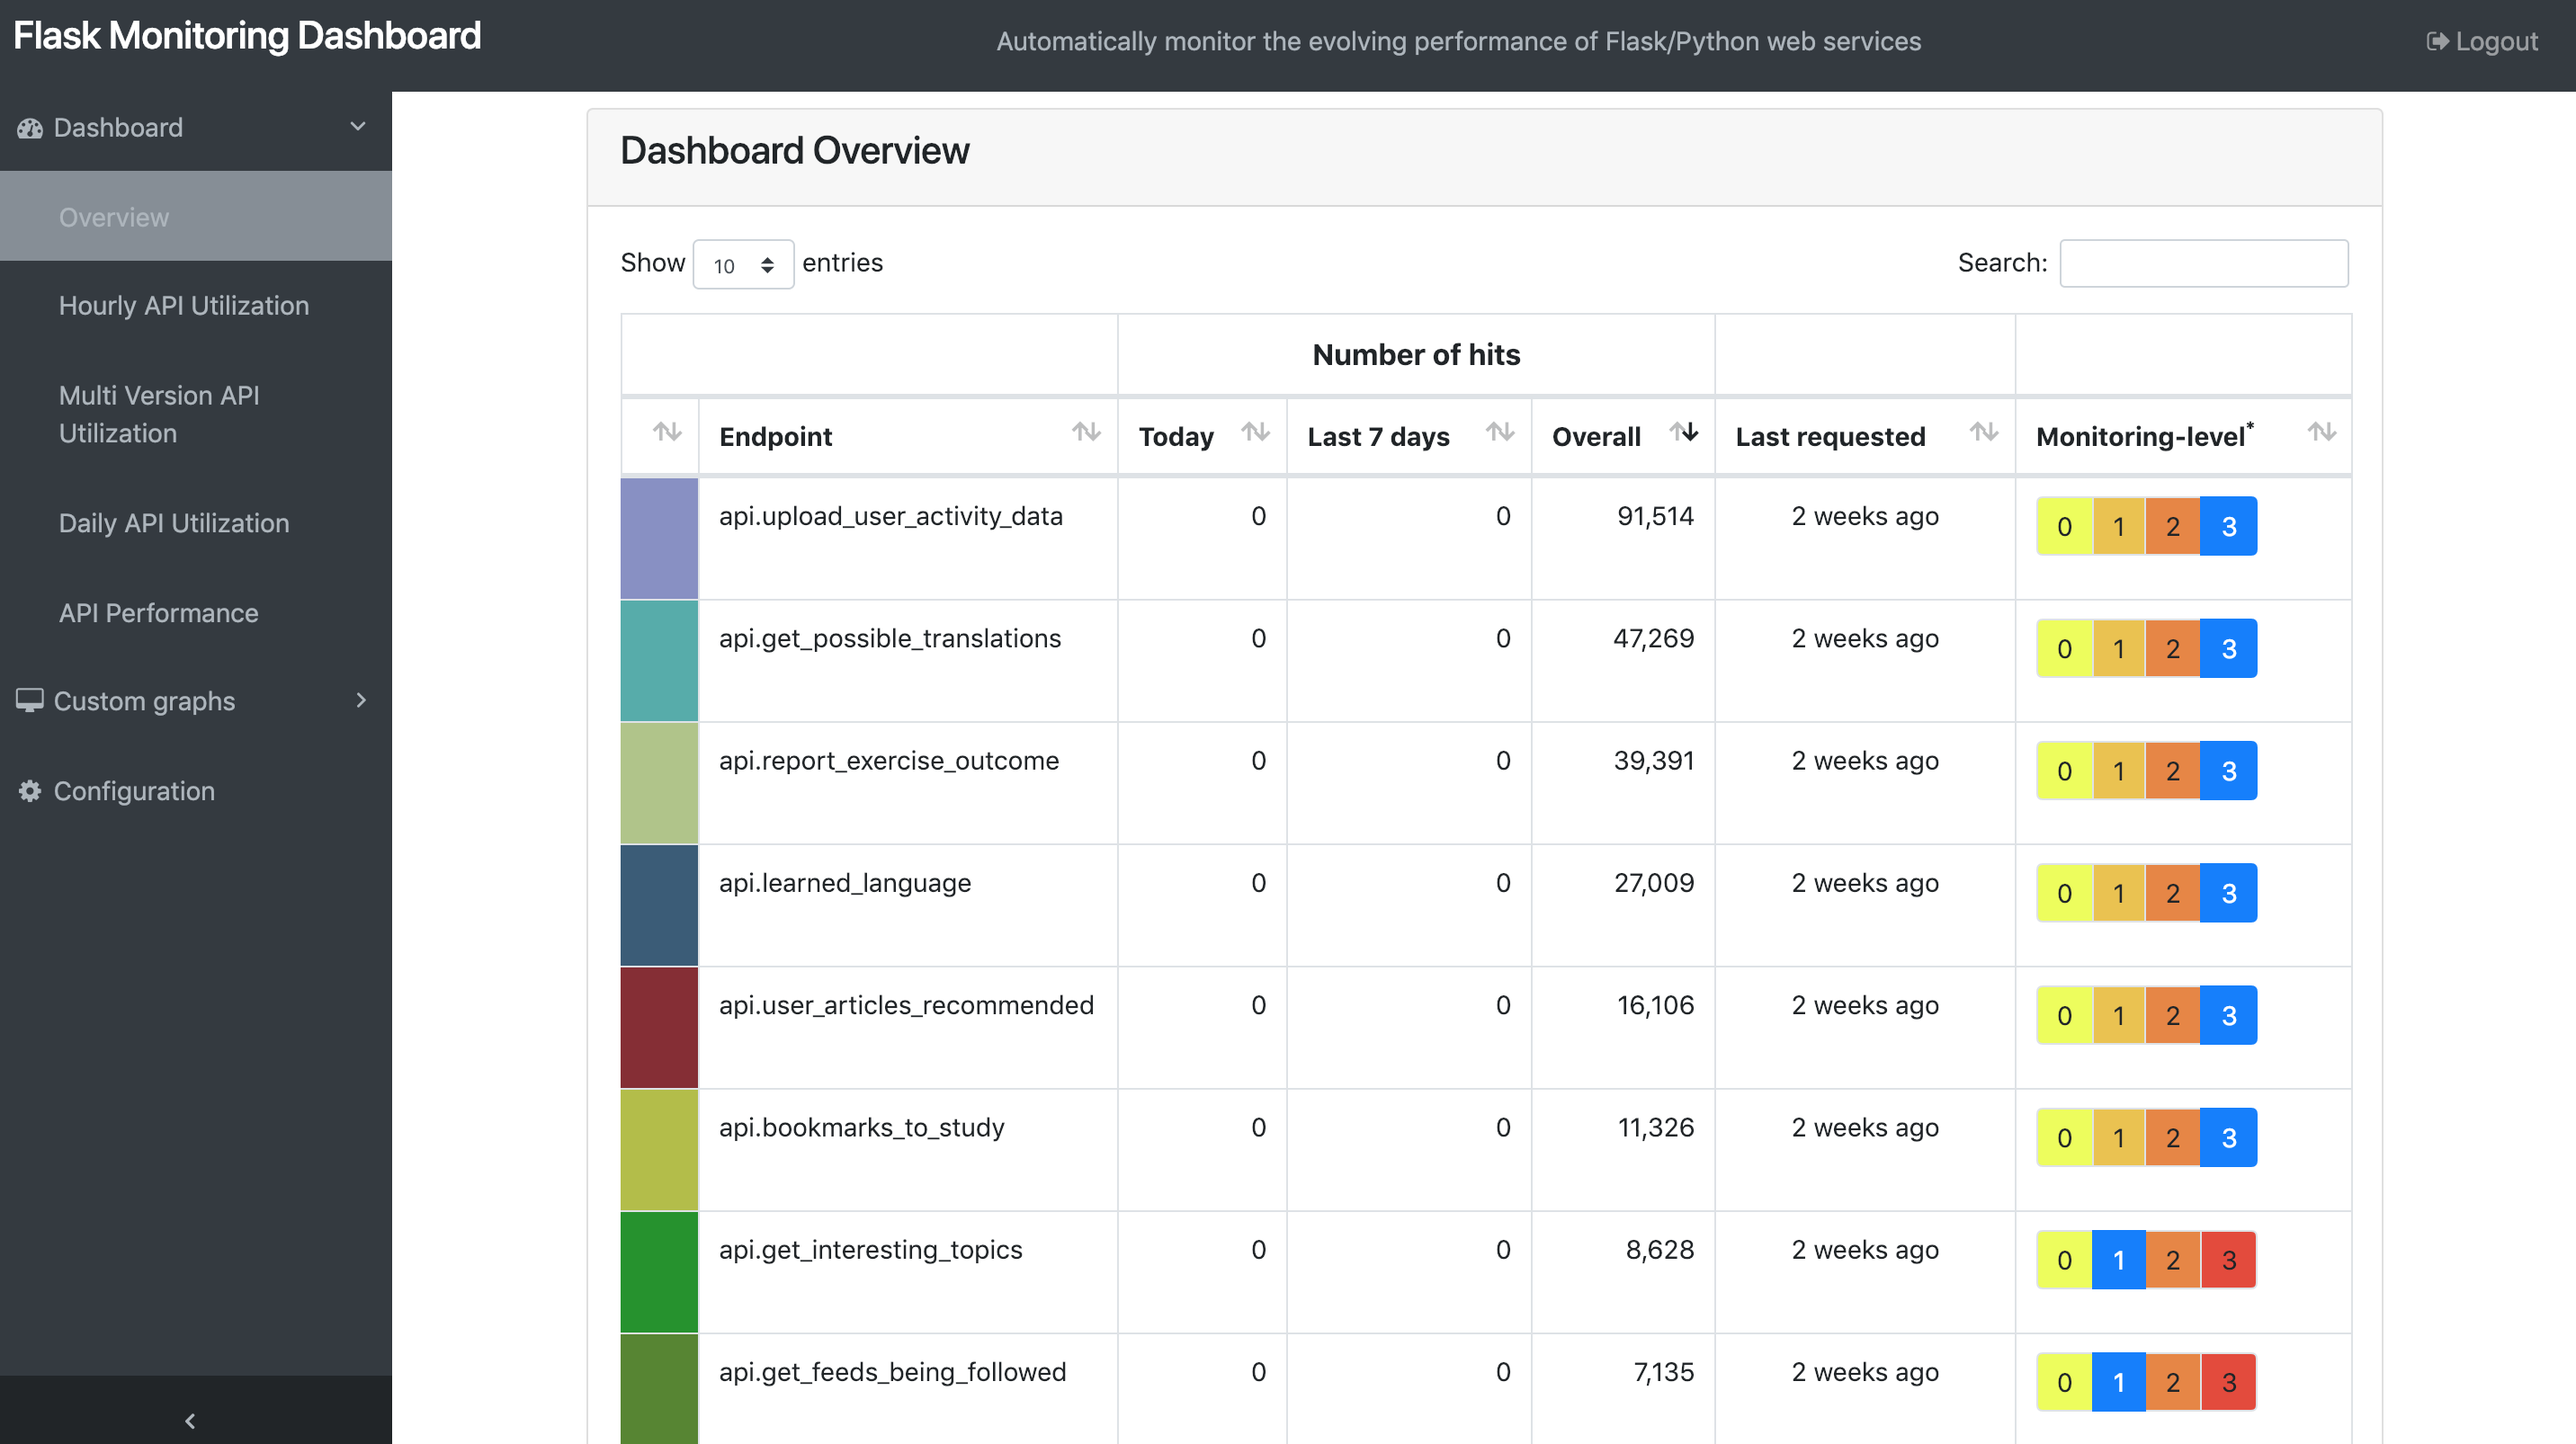
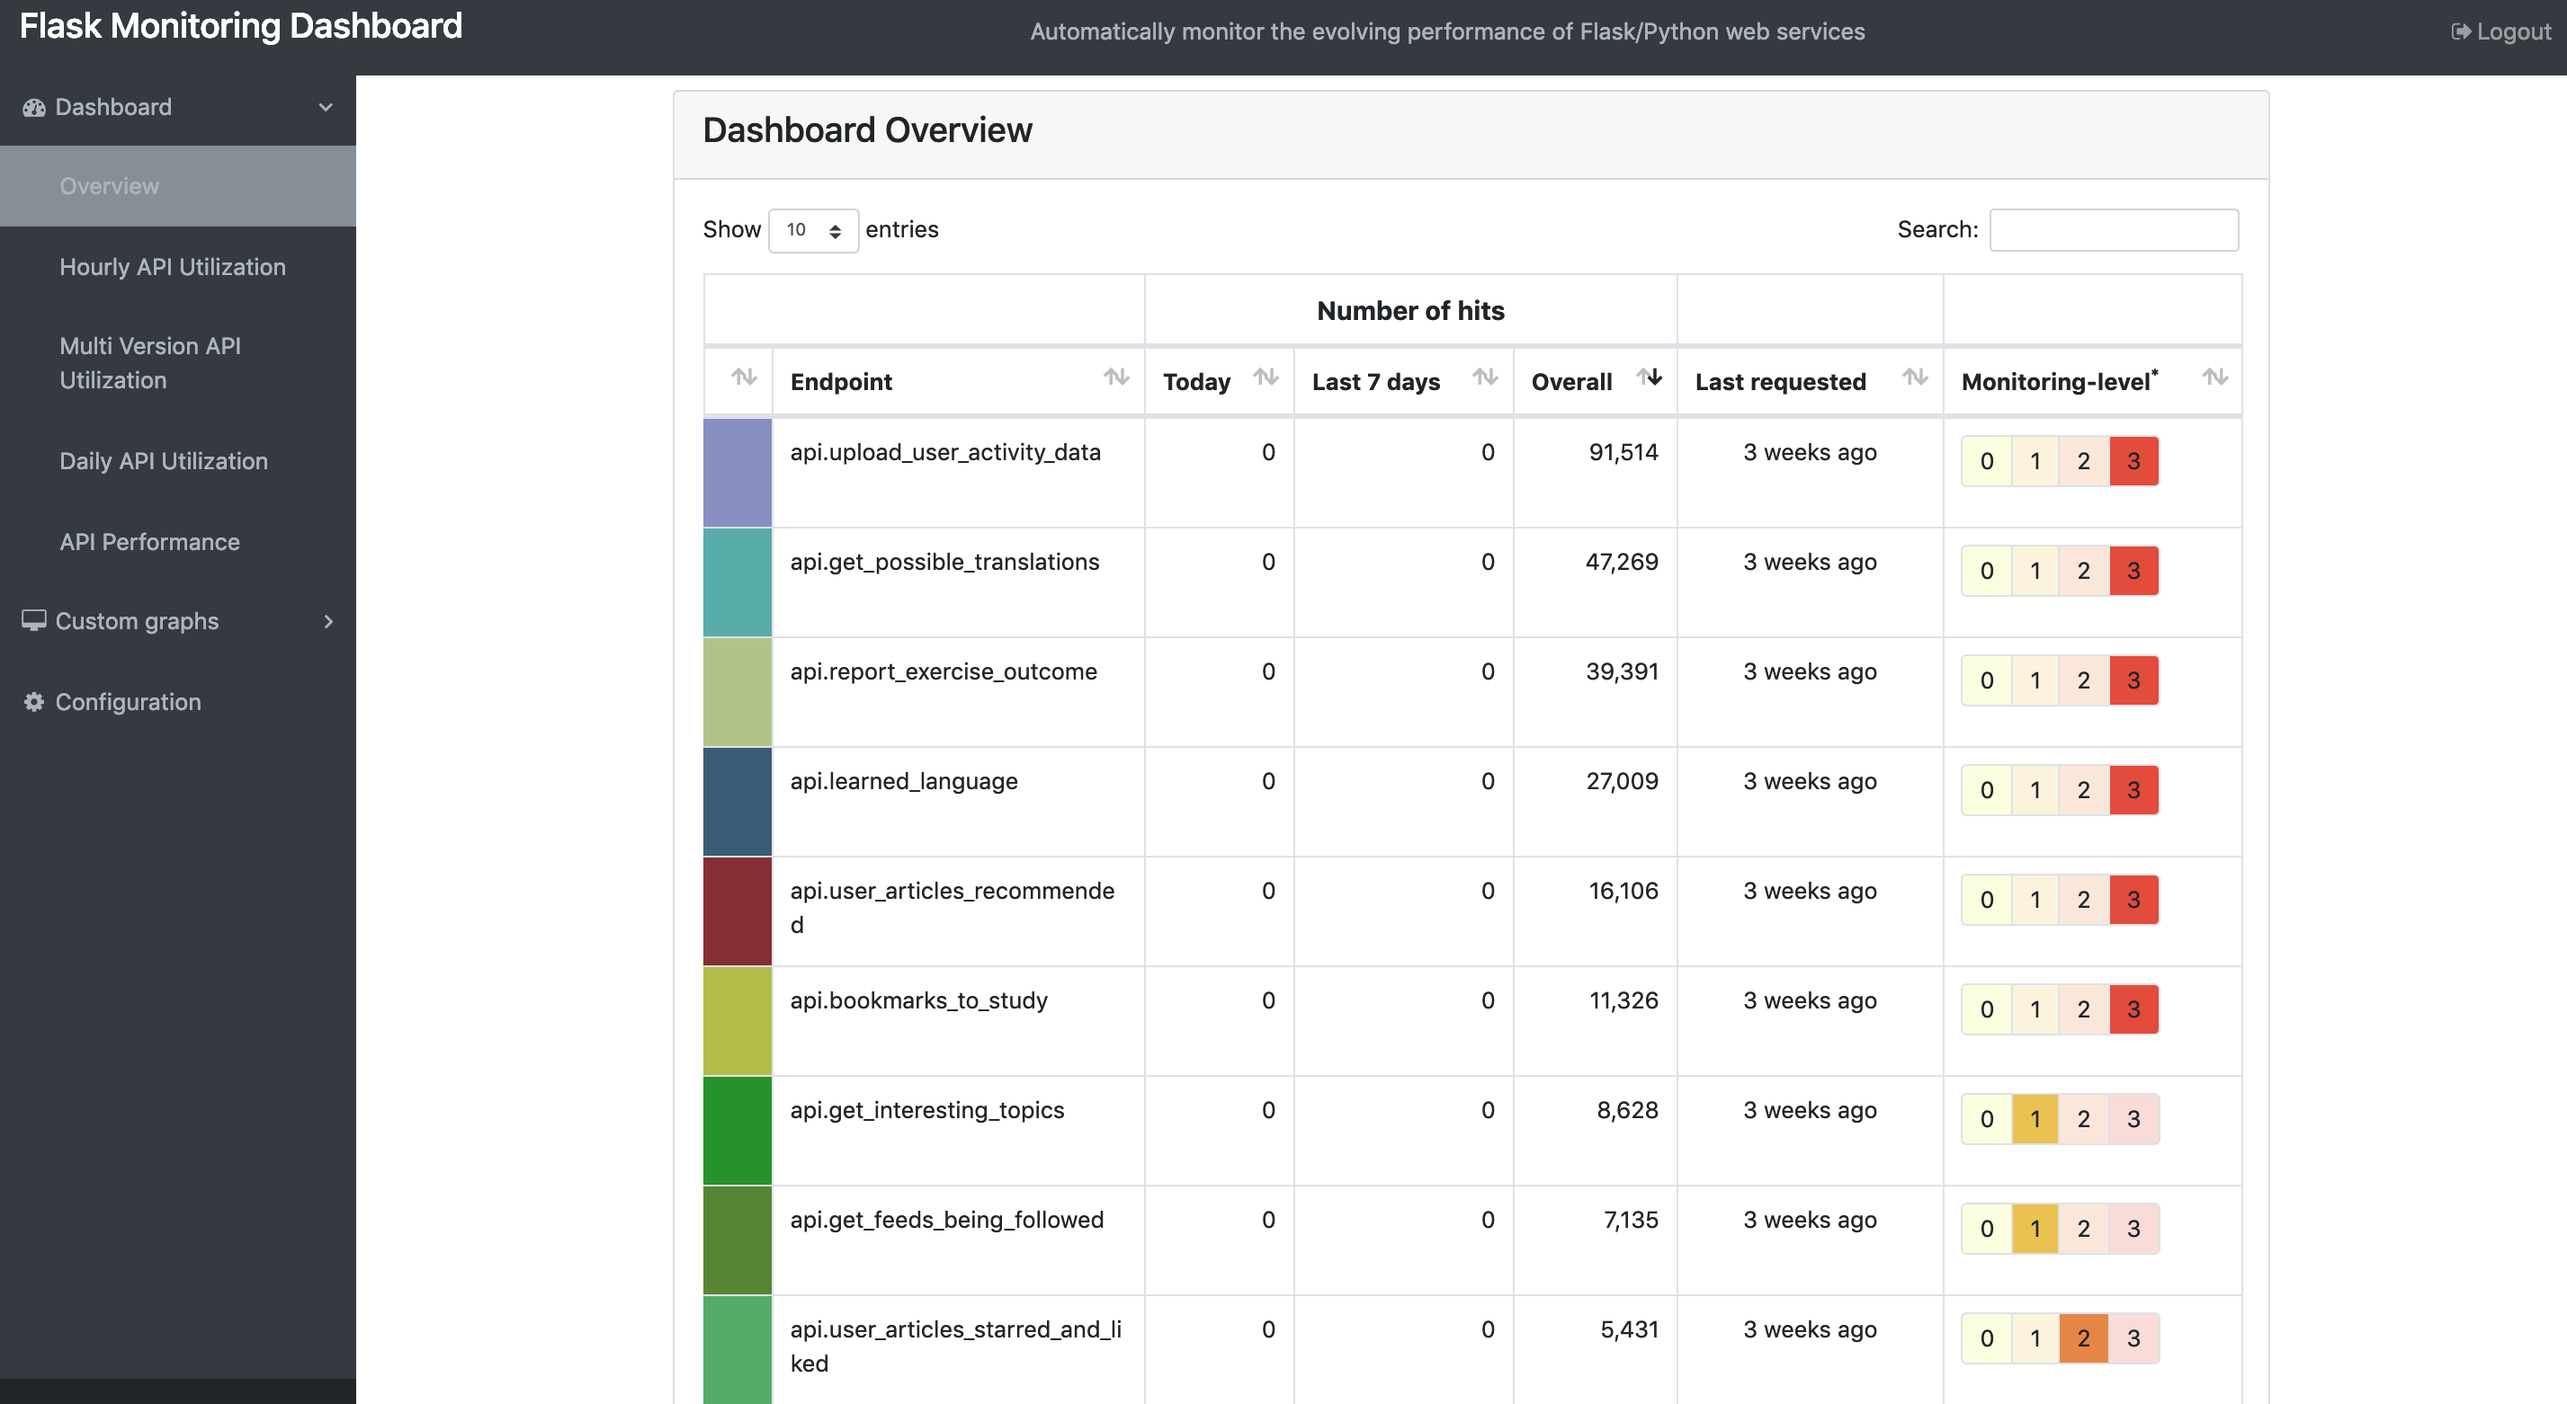
remove blue button from monitoring levels

diff --git a/flask_monitoringdashboard/static/pages/overview.html b/flask_monitoringdashboard/static/pages/overview.html
@@ -59,8 +59,7 @@
                     <td style="text-align: center;">{{ row['last-accessed'] | dateDifference }}</td>
                     <td ng-click="$event.stopPropagation()">
                         <ul class="pagination">
-                            <li ng-repeat="n in [0, 1, 2, 3]" class="page-item"
-                                ng-class="{'active': row.monitor == n}">
+                            <li ng-repeat="n in [0, 1, 2, 3]" class="page-item">
                                 <a class="page-link" ng-click="sendForm(row, n)"
                                    style="background-color: {{ computeColor(n, row.monitor) }}">{{ n }}</a></li>
                         </ul>

diff --git a/flask_monitoringdashboard/static/js/controllers/overview.js b/flask_monitoringdashboard/static/js/controllers/overview.js
@@ -47,8 +47,9 @@ function OverviewController($scope, $http, $location, DTOptionsBuilder, menuServ
     });
 
     $scope.computeColor = function (level, monitor) {
+        let a = 0.2;
         if (monitor === level) {
-            return;
+            a = 1;
         }
 
         let red = [230, 74, 54];
@@ -60,6 +61,6 @@ function OverviewController($scope, $http, $location, DTOptionsBuilder, menuServ
         let g = red[1] * percentage + green[1] * (1 - percentage);
         let b = red[2] * percentage + green[2] * (1 - percentage);
 
-        return 'rgb(' + r + ', ' + g + ', ' + b + ')';
+        return 'rgba(' + r + ', ' + g + ', ' + b + ', ' + a + ')';
     };
 }
